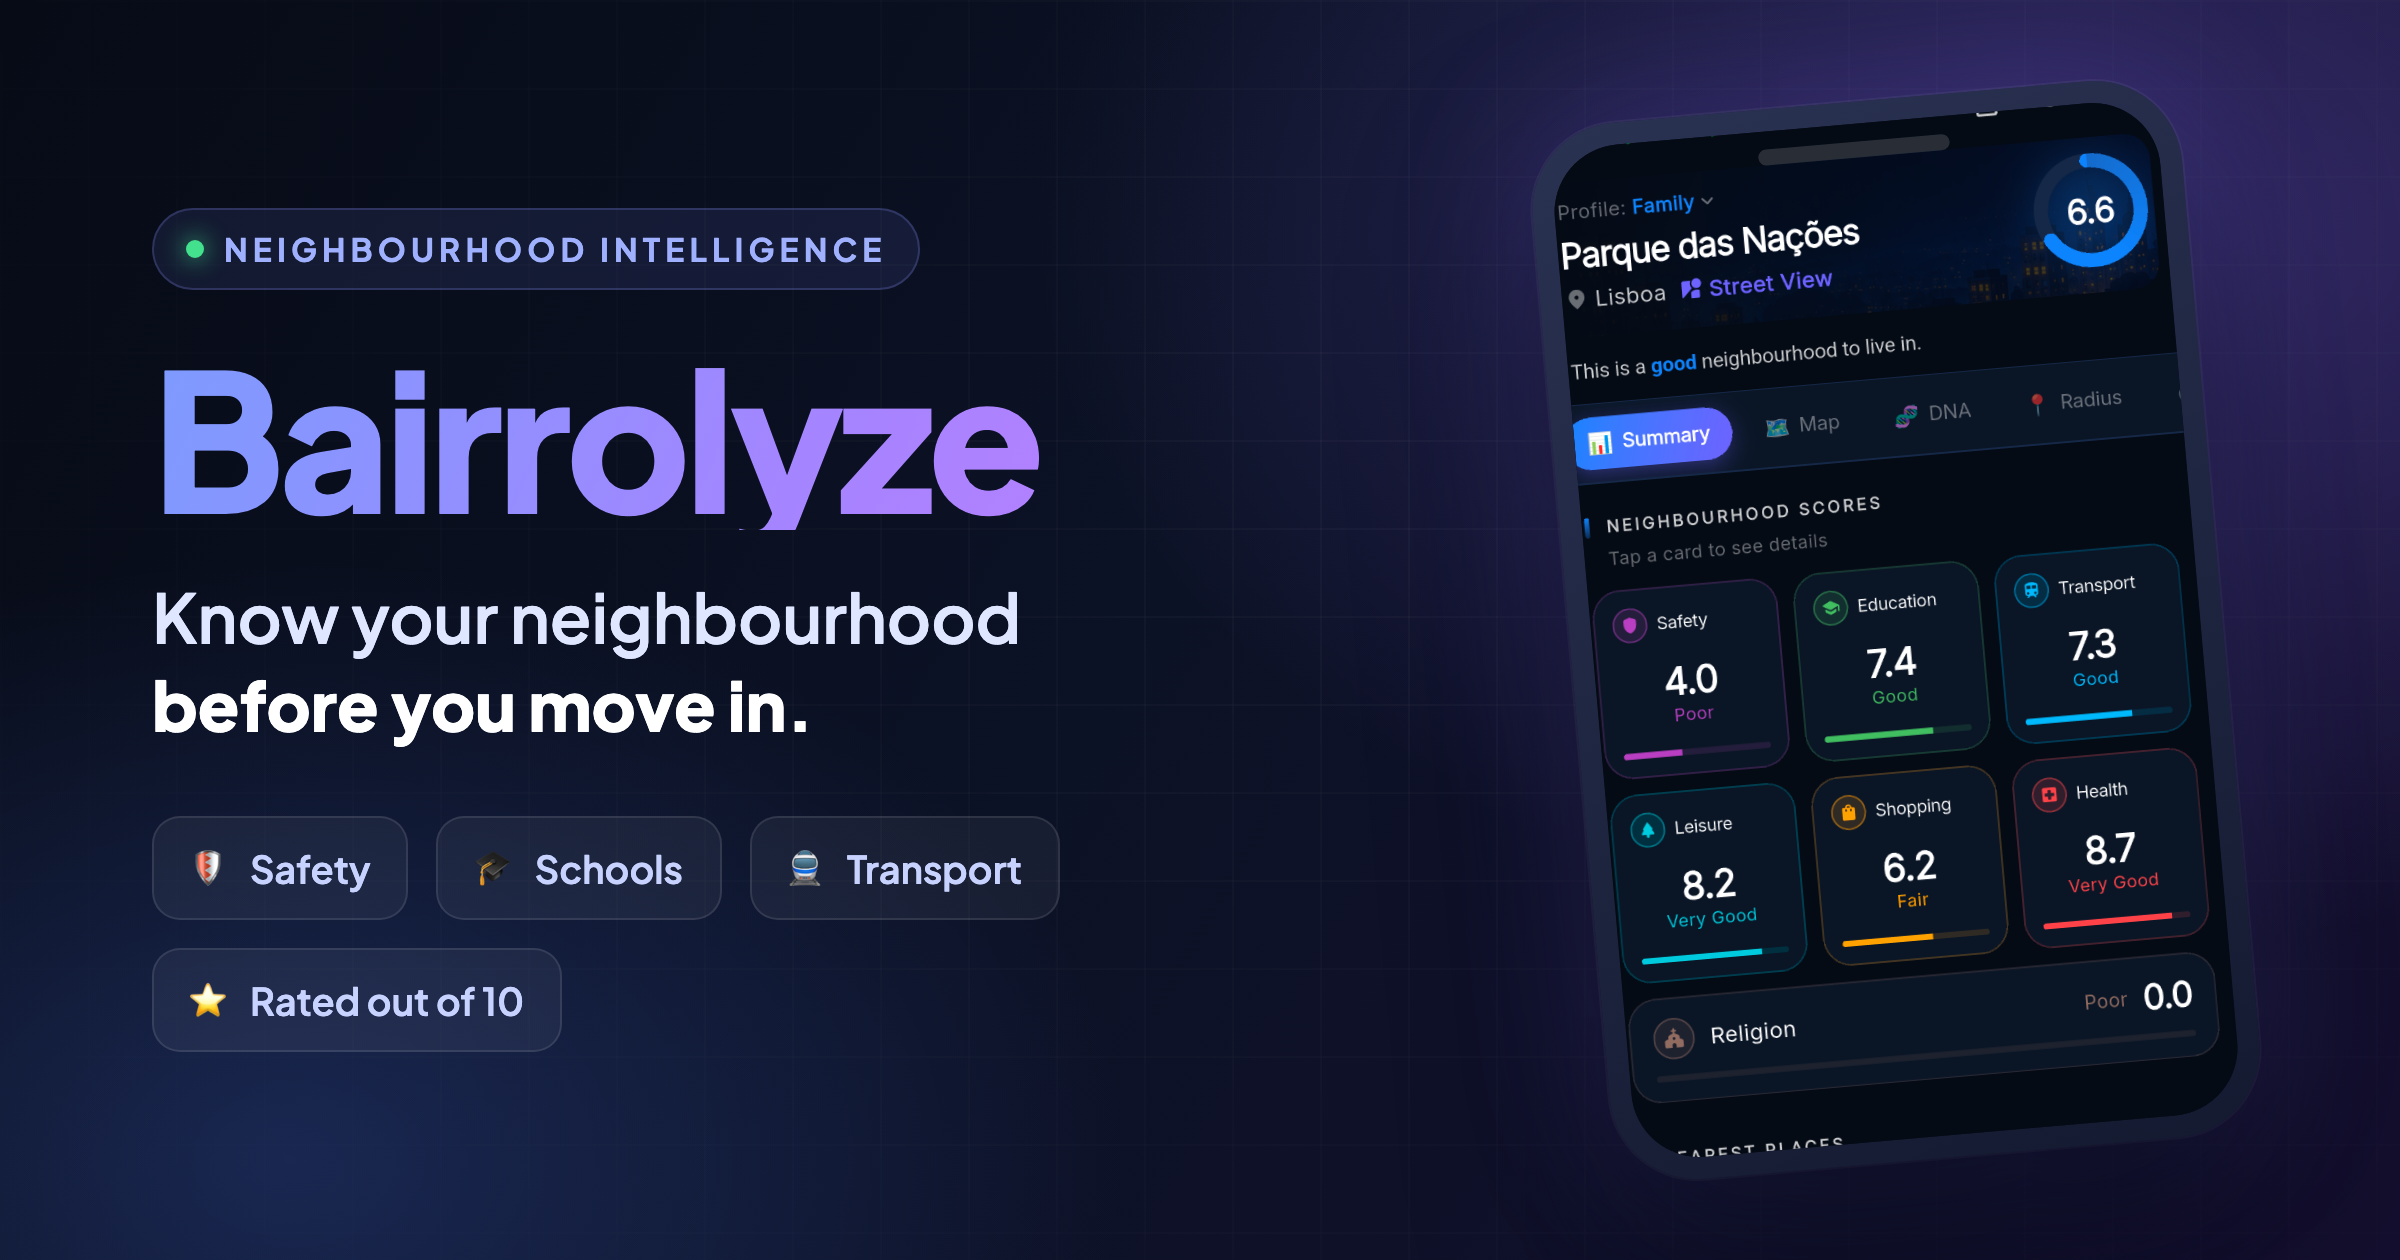
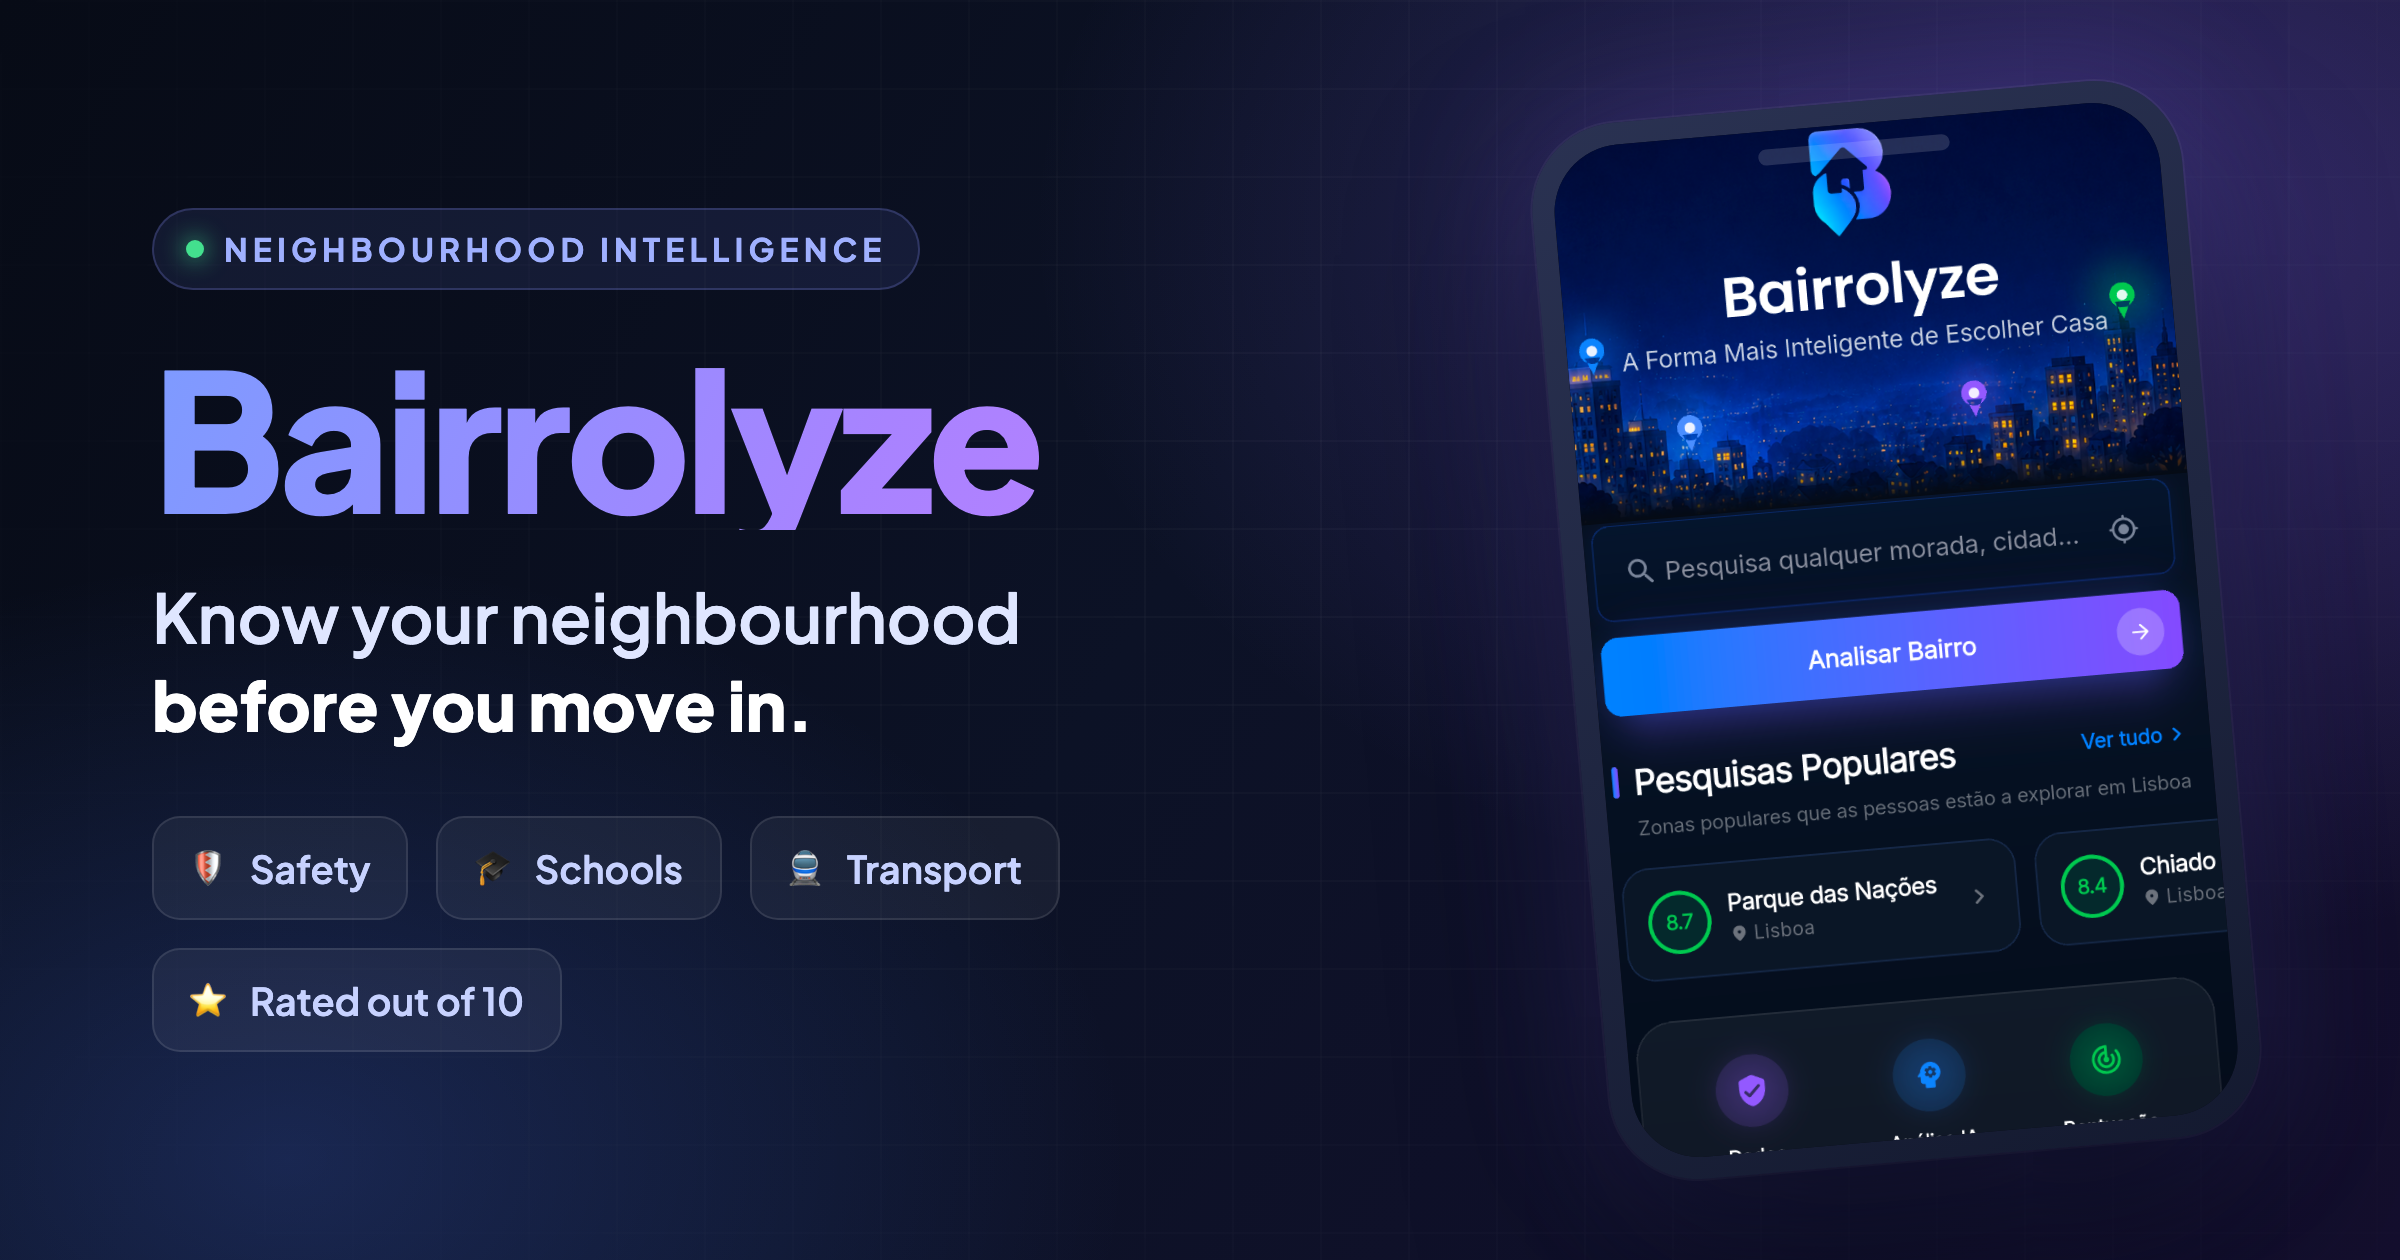
Landing: use the app home screen in the OG card + add twitter:image:alt
Swap the OG social card's device screenshot from the results screen to the
app home screen (logo, search, "Analisar Bairro", popular Lisbon areas), and
update og:image:alt to match. Add twitter:image:alt for X accessibility.

Changed region(s): [[0.625, 0.0619, 0.9375, 0.7738], [0.7812, 0.7738, 0.9375, 0.8976], [0.6875, 0.8048, 0.75, 0.9286]]

diff --git a/landing/index.html b/landing/index.html
@@ -14,11 +14,12 @@
   <meta property="og:image" content="https://bairrolyze.github.io/bairrolyze/images/og-cover.png" />
   <meta property="og:image:width" content="2400" />
   <meta property="og:image:height" content="1260" />
-  <meta property="og:image:alt" content="Bairrolyze app showing a neighbourhood score of 6.6 for Parque das Nações, Lisboa, with category ratings for safety, education and transport." />
+  <meta property="og:image:alt" content="The Bairrolyze app home screen — search any address in Portugal for a neighbourhood score out of 10, with popular Lisbon areas like Parque das Nações (8.7) and Chiado (8.4)." />
   <meta name="twitter:card" content="summary_large_image" />
   <meta name="twitter:title" content="Bairrolyze: Know your neighbourhood before you move in" />
   <meta name="twitter:description" content="Score any address on the things that shape daily life, with live transit data and a clear rating out of 10 for every neighbourhood." />
   <meta name="twitter:image" content="https://bairrolyze.github.io/bairrolyze/images/og-cover.png" />
+  <meta name="twitter:image:alt" content="The Bairrolyze app home screen — search any address in Portugal for a neighbourhood score out of 10, with popular Lisbon areas like Parque das Nações (8.7) and Chiado (8.4)." />
   <meta name="theme-color" content="#f4f5fb" media="(prefers-color-scheme: light)" />
   <meta name="theme-color" content="#070b16" media="(prefers-color-scheme: dark)" />
   <!-- Set the saved theme before first paint so there is no flash of the wrong theme. -->
